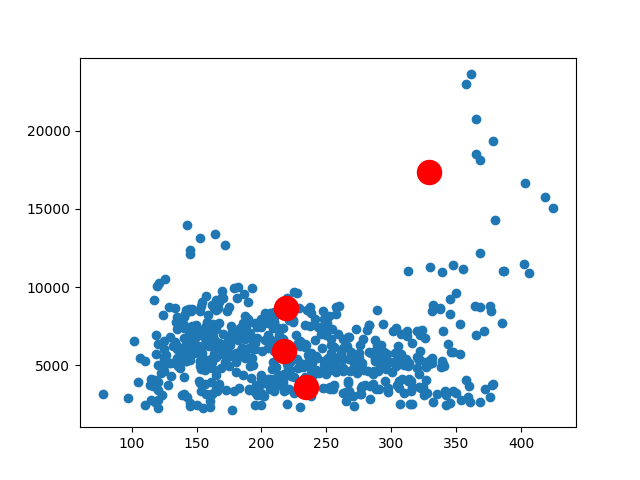
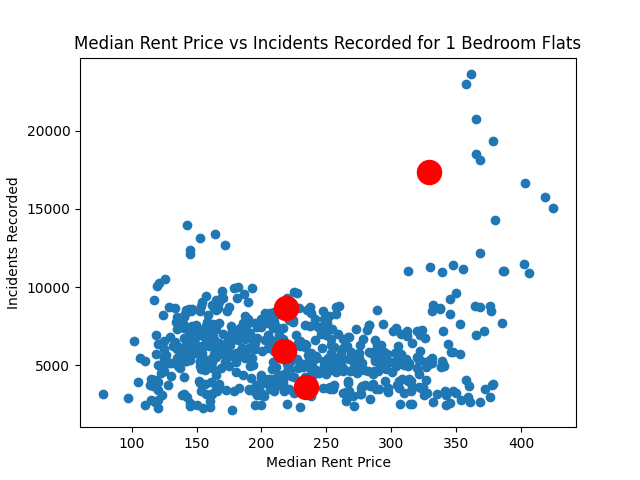
added labels to clustering plots

diff --git a/scatter.py b/scatter.py
@@ -129,19 +129,25 @@ def preprocess_combined(df1, df2):
     df1.reset_index(inplace=True)
     return df1
 
-def cluster_kmeans(X, k, fname):
+def cluster_kmeans(X, k, fname, htype):
     kmeans = KMeans(n_clusters=k, init='k-means++', max_iter=300, n_init=10, random_state=0)
     kmeans.fit_predict(X)
     plt.scatter(X[:,0], X[:,1])
     plt.scatter(kmeans.cluster_centers_[:, 0], kmeans.cluster_centers_[:, 1], s=300, c='red')
+    plt.xlabel("Median Rent Price")
+    plt.ylabel("Incidents Recorded")
+    plt.title(f"Median Rent Price vs Incidents Recorded for {htype}")
     plt.savefig(fname)
     plt.clf()
     return 0
 
 
-def cluster_agglomerative(X, k, fname):
+def cluster_agglomerative(X, k, fname, htype):
     clustering = AgglomerativeClustering(n_clusters=k).fit(X)
     plt.scatter(X[:,0],X[:,1], c=clustering.labels_, cmap='rainbow')
+    plt.xlabel("Median Rent Price")
+    plt.ylabel("Incidents Recorded")
+    plt.title(f"Median Rent Price vs Incidents Recorded for {htype}")
     plt.savefig(fname)
     plt.clf()
     return 0
@@ -183,8 +189,8 @@ plt.xlabel('Number of clusters')
 plt.ylabel('WCSS')
 plt.savefig("1bf-elbow.png")
 plt.clf()
-cluster_kmeans(X, 4, "plot-1bf-kmeans.png")
-cluster_agglomerative(X, 4, "plot-1bf-agglomerative.png")
+cluster_kmeans(X, 4, "plot-1bf-kmeans.png", "1 Bedroom Flats")
+cluster_agglomerative(X, 4, "plot-1bf-agglomerative.png", "1 Bedroom Flats")
 
 p = two_bh["Median House Price"].to_list()
 c = two_bh["Rate per 100,000 population"].to_list()
@@ -192,8 +198,8 @@ l = []
 for i in range(len(two_bh)):
     l.append([p[i], c[i]])
 Y = np.array(l)
-cluster_kmeans(Y, 4, "plot-2bh-kmeans.png")
-cluster_agglomerative(Y, 4, "plot-2bh-agglomerative.png")
+cluster_kmeans(Y, 4, "plot-2bh-kmeans.png", "2 Bedroom Houses")
+cluster_agglomerative(Y, 4, "plot-2bh-agglomerative.png", "2 Bedroom Houses")
 
 # print(h1)
 # print(h1)
